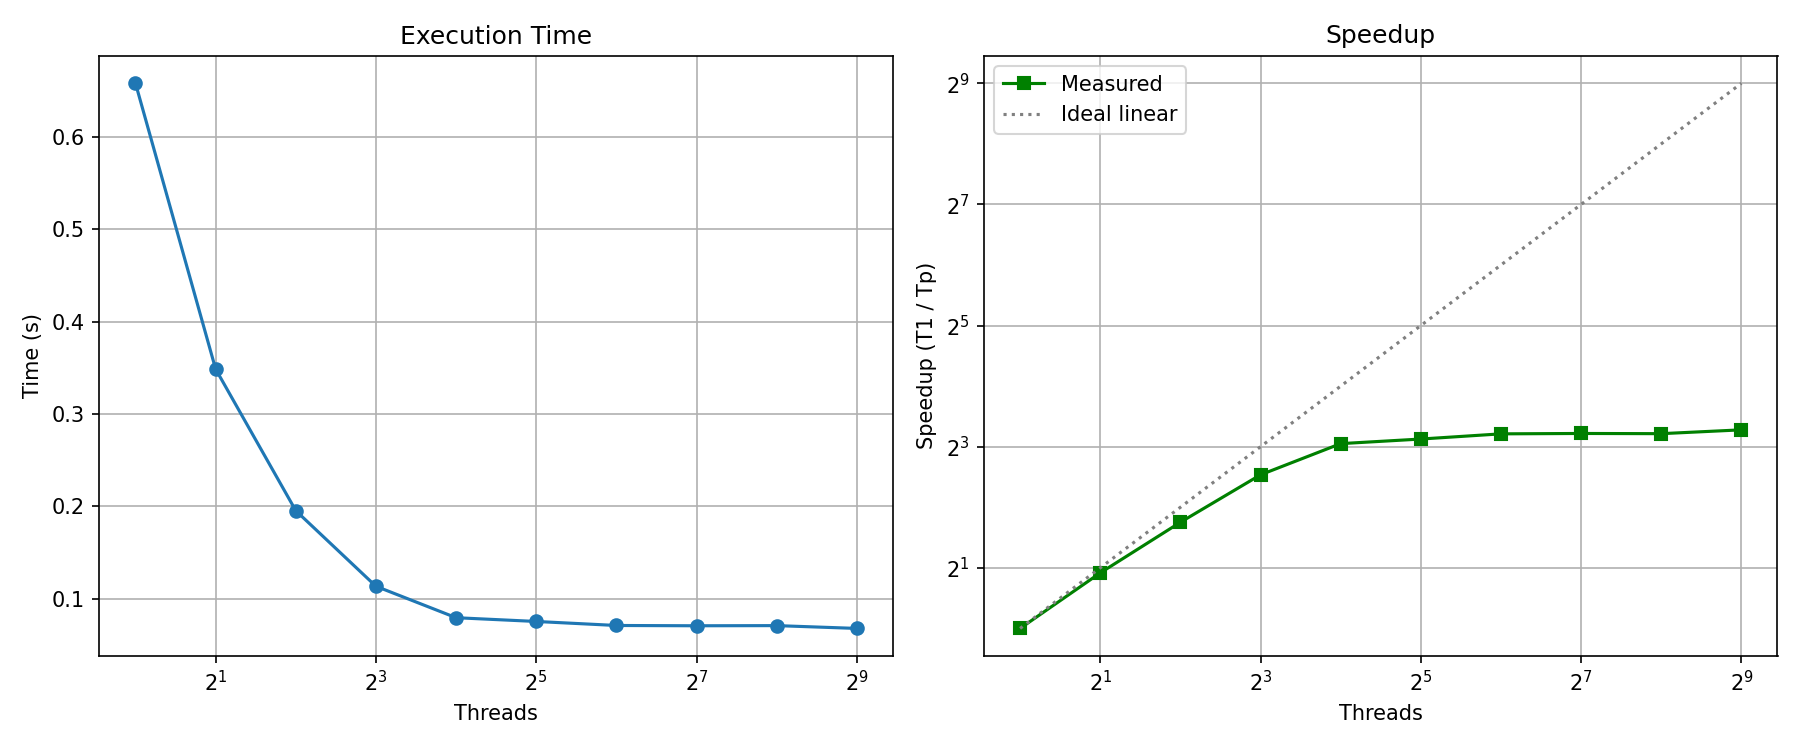
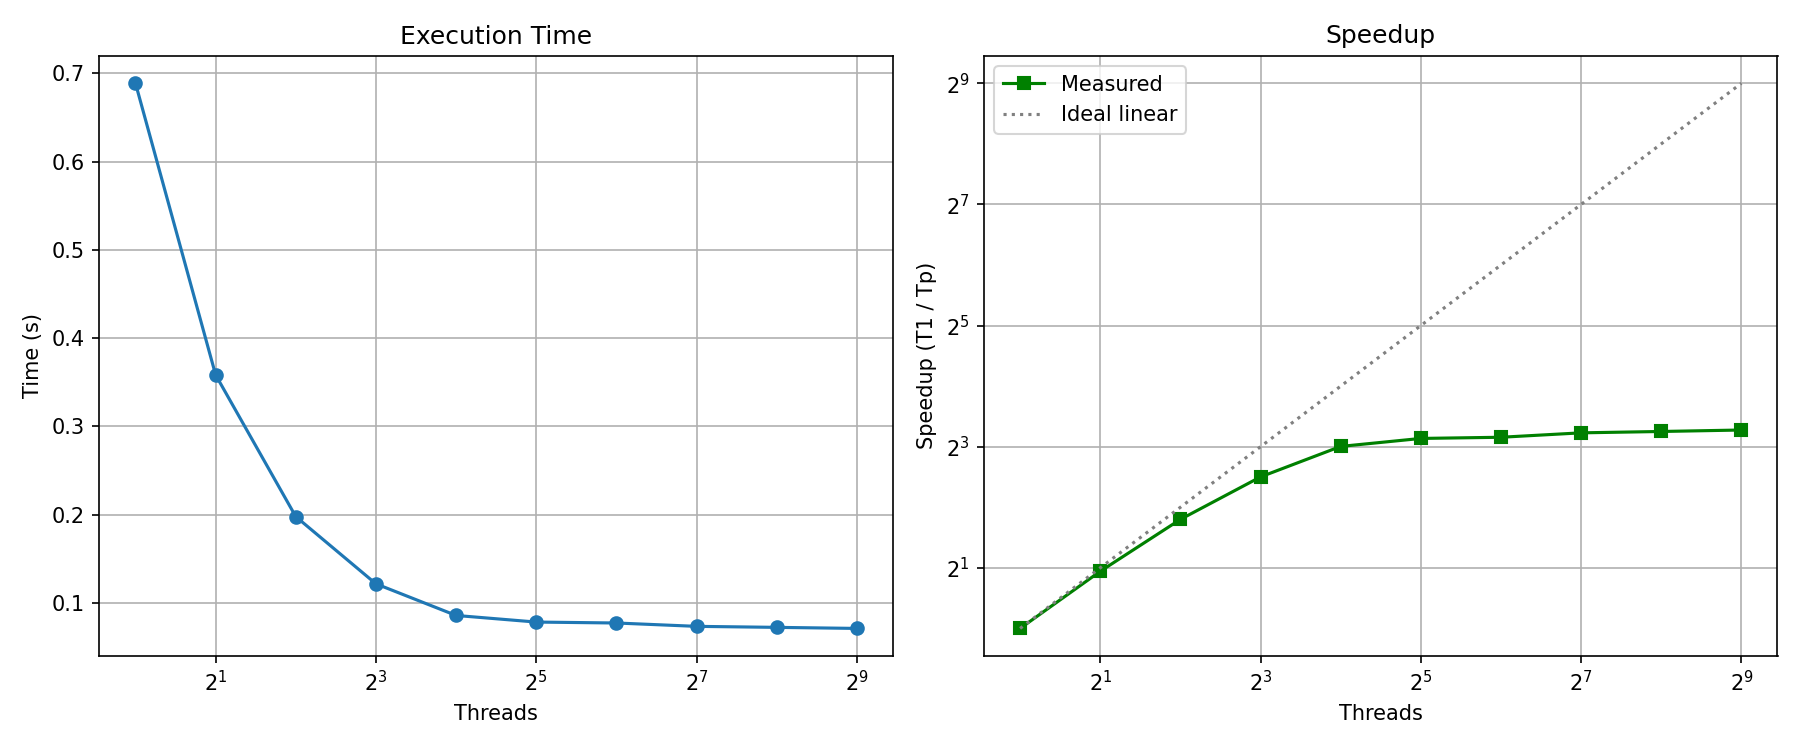
make all tasks

diff --git a/1_semester/parallel/hw1/task1_3_2.py b/1_semester/parallel/hw1/task1_3_2.py
@@ -1,0 +1,76 @@
+from time import perf_counter
+import matplotlib.pyplot as plt
+import numpy as np
+
+
+def fib_recursive(n):
+    if n <= 0:
+        return 0
+    elif n == 1:
+        return 1
+    return fib_recursive(n - 1) + fib_recursive(n - 2)
+
+
+def power_matrix(x, n):
+    if n == 1:
+        return x
+    if n % 2 == 0:
+        matrix = power_matrix(x, n // 2)
+        return matrix @ matrix
+    else:
+        matrix = power_matrix(x, n // 2)
+        return x @ (matrix @ matrix)
+
+
+def matrix_fib(n):
+    if n <= 0:
+        return 0
+    if n == 1:
+        return 1
+    F_0 = np.array([[0, 1], [1, 1]])
+    return power_matrix(F_0, n)[0][1]
+
+np.testing.assert_equal(matrix_fib(0), 0)
+np.testing.assert_equal(matrix_fib(1), 1)
+np.testing.assert_equal(matrix_fib(2), 1)
+np.testing.assert_equal(matrix_fib(45), 1134903170)
+np.testing.assert_equal(matrix_fib(90), 2880067194370816120)
+
+
+n_values = list(range(1, 33))
+
+times_recursive = []
+times_matrix = []
+
+for n in n_values:
+    t0 = perf_counter()
+    _ = fib_recursive(n)
+    times_recursive.append(perf_counter() - t0)
+
+    repeats = 500
+    t0 = perf_counter()
+    for _ in range(repeats):
+        _ = matrix_fib(n)
+    times_matrix.append((perf_counter() - t0) / repeats)
+
+fig, (ax1, ax2) = plt.subplots(1, 2, figsize=(14, 5))
+
+ax1.plot(n_values, times_recursive, "r-o", label="Recursive O(2^n)")
+ax1.plot(n_values, times_matrix, "b-s", label="Matrix Power O(log n)")
+ax1.set_title("Execution Time (Linear Scale)")
+ax1.set_xlabel("Fibonacci index (n)")
+ax1.set_ylabel("Time (seconds)")
+ax1.grid(True)
+ax1.legend()
+
+ax2.plot(n_values, times_recursive, "r-o", label="Recursive O(2^n)")
+ax2.plot(n_values, times_matrix, "b-s", label="Matrix Power O(log n)")
+ax2.set_yscale("log")
+ax2.set_title("Execution Time (Log Scale)")
+ax2.set_xlabel("Fibonacci index (n)")
+ax2.set_ylabel("Time (seconds, log scale)")
+ax2.grid(True, which="both", ls="--")
+ax2.legend()
+
+plt.tight_layout()
+plt.savefig("task1_3_result.png", dpi=300)

diff --git a/1_semester/parallel/hw1/task1_3_1.py b/1_semester/parallel/hw1/task1_3_1.py
@@ -1,0 +1,67 @@
+from time import perf_counter
+
+counter = 0
+
+
+def my_fib(n):
+    global counter
+    counter += 1
+    if n == 0:
+        return 0
+    elif n == 1:
+        return 1
+    else:
+        return my_fib(n - 1) + my_fib(n - 2)
+
+
+itr_counter = 0
+
+
+def itr_fib(n):
+    global itr_counter
+    if n == 0:
+        return 0
+    else:
+        fib = [0] * n
+        fib.insert(1, 1)
+        for i in range(2, n + 1):
+            itr_counter += 1
+            fib[i] = fib[i - 1] + fib[i - 2]
+    return fib[n]
+
+
+def benchmark_fib(n):
+    global counter, itr_counter
+
+    counter = 0
+    t_start_1 = perf_counter()
+    my_fib(n)
+    t_elapsed_1 = perf_counter() - t_start_1
+    calls_rec = counter
+
+    itr_counter = 0
+    t_start_2 = perf_counter()
+    res_itr = itr_fib(n)
+    t_elapsed_2 = perf_counter() - t_start_2
+    calls_itr = itr_counter
+
+    print(f"\n--- Benchmark for n = {n} ---")
+    print(f"Result: {res_itr}")
+    print(
+        f"Iterative: {t_elapsed_2:.8f} s  (inner loop steps: {calls_itr})"
+    )
+    print(
+        f"Recursive: {t_elapsed_1:.8f} s  (function calls:   {calls_rec})"
+    )
+    if t_elapsed_2 > 0:
+        print(f"Speedup:   Iterative is ~{t_elapsed_1 / t_elapsed_2:.1f}x faster")
+
+
+print("Fibonacci of 4, 7, 14, 21")
+print(f"Iterative = {itr_fib(4)} : Recursive = {my_fib(4)}")
+print(f"Iterative = {itr_fib(7)} : Recursive = {my_fib(7)}")
+print(f"Iterative = {itr_fib(14)} : Recursive = {my_fib(14)}")
+print(f"Iterative = {itr_fib(21)} : Recursive = {my_fib(21)}")
+
+for n in [4, 7, 14, 21, 28, 32]:
+    benchmark_fib(n)
